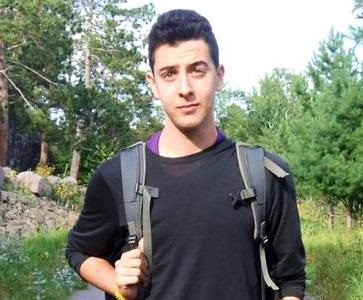
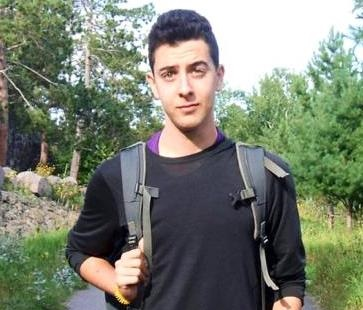
collin and abby pics

diff --git a/about.html b/about.html
@@ -103,7 +103,7 @@
 		
 		<div class="col-md-3 text-center">
 			<div class="thumbnail">
-				<img class="img-responsive" src="http://placehold.it/750x450" alt="">
+				<img class="img-responsive" src="img\abby.png" alt="">
 				<div class="caption">
 					<h3>Abby Blachman<br>
 						<small>Design</small>
@@ -123,7 +123,7 @@
 		
 		<div class="col-md-3 text-center">
 			<div class="thumbnail">
-				<img class="img-responsive" src="http://placehold.it/750x450" alt="">
+				<img class="img-responsive" src="img\collin.png" alt="">
 				<div class="caption">
 					<h3>Collin Pham<br>
 						<small>Business Operations</small>
